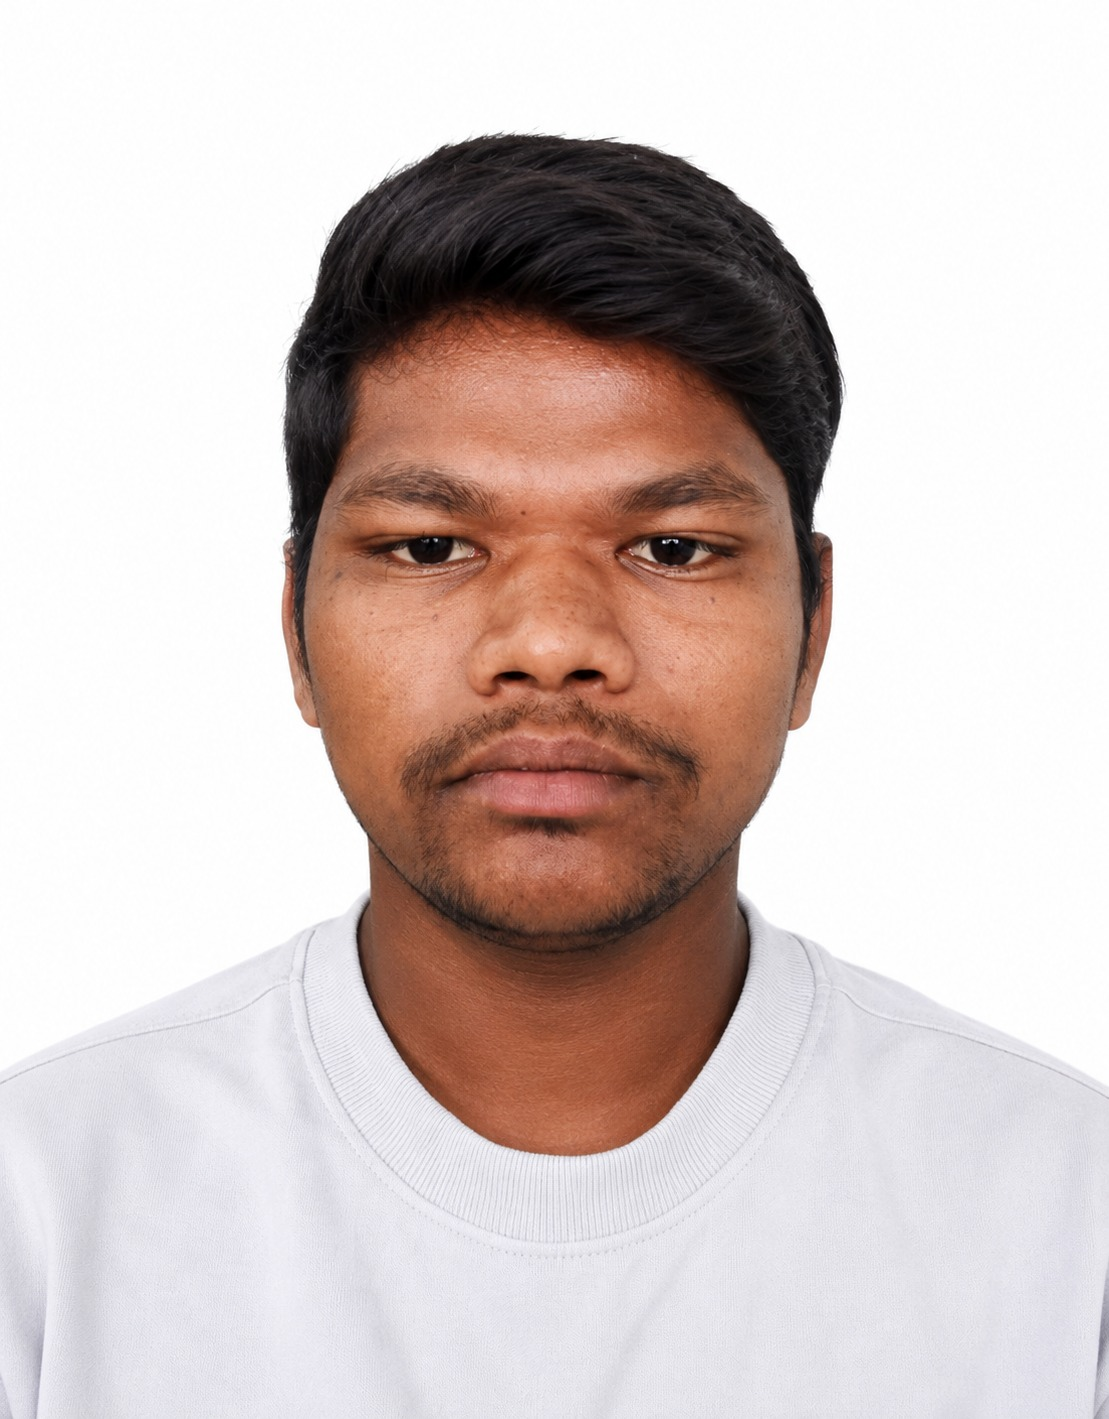
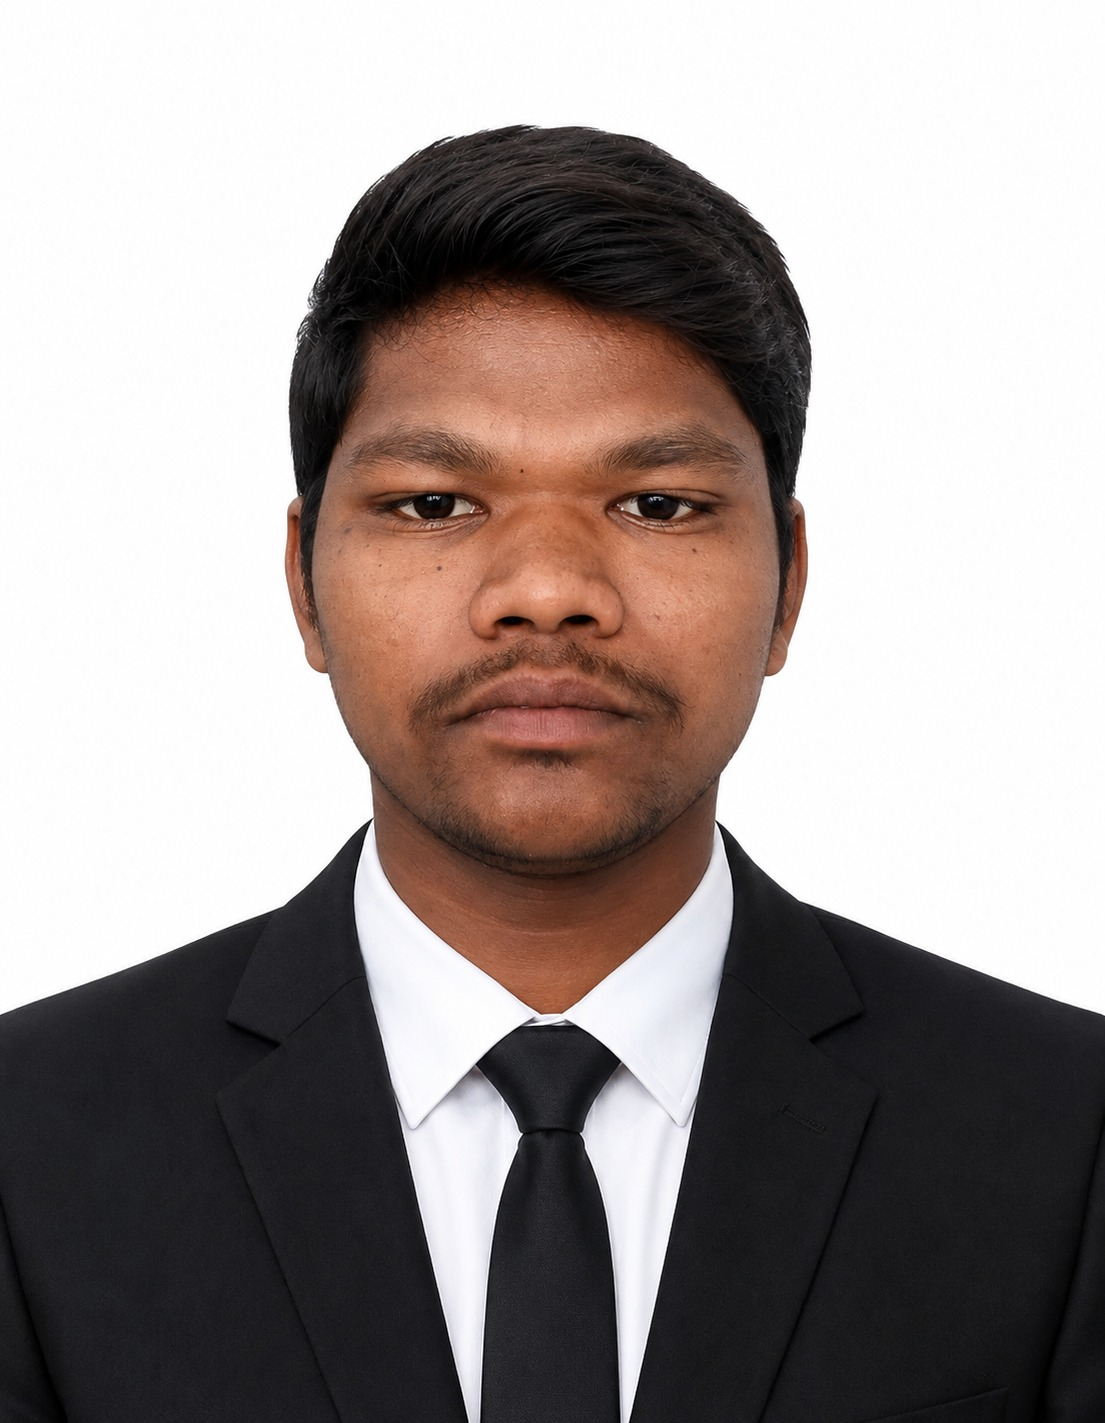
Update experience to 17+ years, add service images, store exterior photo
- Update experience from 3+ to 17+ years in About page and WhyChooseUs
- Update Jannu Raghuram staff photo with new image
- Add Ration Card service image
- Add Bhu Bharati service image for all 5 land services
- Update PVC Cards service image
- Add store exterior photo to Contact page near address section

diff --git a/src/lib/services-data.ts b/src/lib/services-data.ts
@@ -251,6 +251,7 @@ export const SERVICES: Service[] = [
     iconName: 'HiClipboardDocumentList',
     category: 'Documents',
     description: 'New Ration Card application, name addition/deletion, and address corrections. Full assistance with online process.',
+    imageUrl: '/posters/ration-card.jpg',
     requirements: [
       'Aadhaar Cards of all family members',
       'Address proof (Electricity bill / Gas bill)',
@@ -519,7 +520,7 @@ export const SERVICES: Service[] = [
     iconName: 'HiCreditCard',
     category: 'Printing',
     description: 'High-quality PVC card printing — ID cards, Aadhaar, PAN, business cards, and employee ID cards.',
-    imageUrl: '/posters/pvc-cards.jpg',
+    imageUrl: '/posters/pvc-card.jpg',
     requirements: [
       'Soft copy of the card content / design',
       'Photograph (high resolution)',
@@ -1074,6 +1075,7 @@ export const SERVICES: Service[] = [
     iconName: 'HiMap',
     category: 'Bhu Bharati Services',
     description: 'ROR / 1B record correction services on Bhu Bharati Portal. Name, extent, and survey number corrections.',
+    imageUrl: '/posters/bhu-bharati.jpg',
     requirements: [
       'Pattadar Passbook',
       'Aadhaar Card of the Pattadar',
@@ -1090,6 +1092,7 @@ export const SERVICES: Service[] = [
     iconName: 'HiMap',
     category: 'Bhu Bharati Services',
     description: 'Agriculture Land Slots Booking on Bhu Bharati Portal. Online slot reservation for land registration appointments.',
+    imageUrl: '/posters/bhu-bharati.jpg',
     requirements: [
       'Aadhaar Card of both buyer & seller',
       'Pattadar Passbook',
@@ -1106,6 +1109,7 @@ export const SERVICES: Service[] = [
     iconName: 'HiClipboardDocumentList',
     category: 'Bhu Bharati Services',
     description: 'Pattadar Passbook name correction on Bhu Bharati Portal. Update Pattadar details as per government records.',
+    imageUrl: '/posters/bhu-bharati.jpg',
     requirements: [
       'Existing Pattadar Passbook',
       'Aadhaar Card (with correct name)',
@@ -1121,6 +1125,7 @@ export const SERVICES: Service[] = [
     iconName: 'HiMagnifyingGlass',
     category: 'Bhu Bharati Services',
     description: 'Land Details Search on Bhu Bharati Portal — survey number lookup, ownership verification, and extent details.',
+    imageUrl: '/posters/bhu-bharati.jpg',
     requirements: [
       'Survey number',
       'Village name',
@@ -1136,6 +1141,7 @@ export const SERVICES: Service[] = [
     iconName: 'HiDocumentCheck',
     category: 'Bhu Bharati Services',
     description: 'Pattadar Passbook data correction on Bhu Bharati — update extent, survey number, village name, and other land records.',
+    imageUrl: '/posters/bhu-bharati.jpg',
     requirements: [
       'Existing Pattadar Passbook',
       'Aadhaar Card of the Pattadar',

diff --git a/src/pages/Contact.tsx b/src/pages/Contact.tsx
@@ -93,6 +93,19 @@ export default function Contact() {
                 We respond to all online inquiries within 2 hours during normal business operations. Drop by our retail outlet or dial our direct line.
               </p>
 
+              {/* Store Exterior */}
+              <div className="rounded-2xl overflow-hidden border border-gray-100 shadow-soft">
+                <img
+                  src="/store-exterior.jpg"
+                  alt="EXTEND KART Store — Deshaipet Road, Warangal"
+                  className="w-full h-44 object-cover"
+                  loading="lazy"
+                />
+                <div className="px-4 py-2.5 bg-white">
+                  <p className="text-[11px] font-bold text-gray-500 uppercase tracking-wider">Our Store · Deshaipet Road, Warangal</p>
+                </div>
+              </div>
+
               {/* Grid of Cards */}
               <div className="grid grid-cols-1 sm:grid-cols-2 lg:grid-cols-1 gap-6 pt-4">
                 {contactCards.map((card, i) => {

diff --git a/src/components/WhyChooseUs.tsx b/src/components/WhyChooseUs.tsx
@@ -30,10 +30,10 @@ const FEATURES = [
   },
   {
     title: 'Expert Consulting Team',
-    description: 'Years of local experience handling FSSAI, MSME, property registrations, and compliance.',
+    description: '17+ years of local experience handling FSSAI, MSME, property registrations, and compliance.',
     icon: HiUserGroup,
     gradient: 'from-purple-400 to-purple-600',
-    stat: '5+',
+    stat: '17+',
     statLabel: 'Years Exp.',
   },
 ];

diff --git a/src/pages/About.tsx b/src/pages/About.tsx
@@ -85,7 +85,7 @@ export default function About() {
               { val: '500+', label: 'Customers Served' },
               { val: '4.9 ⭐', label: 'Google Rating' },
               { val: '40+', label: 'Services Available' },
-              { val: '3+ Years', label: 'Active Experience' },
+              { val: '17+ Years', label: 'Active Experience' },
             ].map((stat, i) => (
               <div 
                 key={i}
